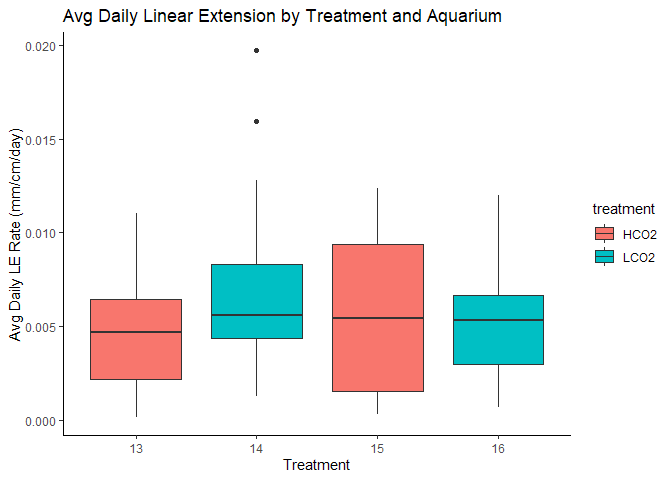
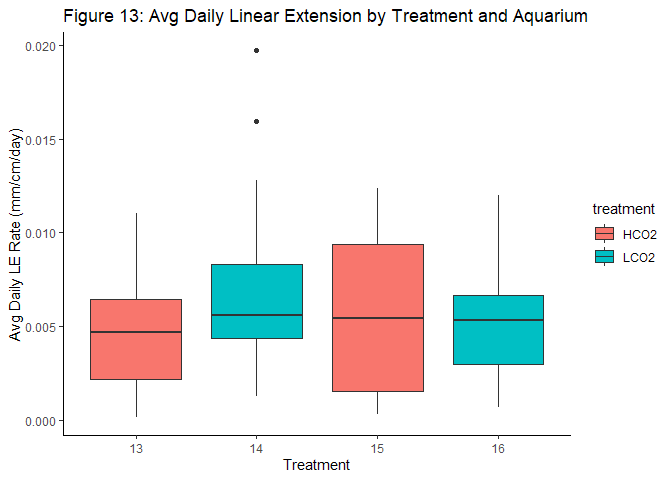
post update

Changed region(s): [[0.0938, 0.0, 0.875, 0.0625]]

diff --git a/_posts/2022-08-03-ulink2022GrowthAnalysis.md b/_posts/2022-08-03-ulink2022GrowthAnalysis.md
@@ -106,7 +106,7 @@ programmed variability will be apart of the variability of each sample
 along with sampling error, durafet error altering amount of CO2 injected
 into aquaria (shown above in the LabView data), etc.
 
-<img src="/notebook/images/ulinkGrowth2022/unnamed-chunk-3-1.png" width="90%" style="display: block; margin: auto;" />
+<img src="/notebook/images/ulinkGrowth2022/todSampling-1.png" width="90%" style="display: block; margin: auto;" />
 
 Sampling time had a mean of around 10a. 3 sampling times were taken
 after 12p with one sampling time around 4:20p
@@ -115,7 +115,7 @@ after 12p with one sampling time around 4:20p
 
 <table class=" lightable-classic" style="font-family: &quot;Arial Narrow&quot;, &quot;Source Sans Pro&quot;, sans-serif; margin-left: auto; margin-right: auto;">
 <caption>
-Aquarium Conditions. Means ± SEM
+Table 1: Aquarium Conditions. Means ± SEM
 </caption>
 <thead>
 <tr>
@@ -242,7 +242,7 @@ T16
 
 <table class=" lightable-classic" style="font-family: &quot;Arial Narrow&quot;, &quot;Source Sans Pro&quot;, sans-serif; margin-left: auto; margin-right: auto;">
 <caption>
-Significance of Parameters
+Table 2: Significance of Parameters
 </caption>
 <thead>
 <tr>
@@ -788,7 +788,7 @@ There is some obvious genet-specific responses.
 
 <table class=" lightable-classic" style="font-family: &quot;Arial Narrow&quot;, &quot;Source Sans Pro&quot;, sans-serif; margin-left: auto; margin-right: auto;">
 <caption>
-Means of Treatment
+Table 2: Means of Treatment
 </caption>
 <thead>
 <tr>
@@ -839,7 +839,7 @@ LCO2
 </table>
 <table class=" lightable-classic" style="font-family: &quot;Arial Narrow&quot;, &quot;Source Sans Pro&quot;, sans-serif; margin-left: auto; margin-right: auto;">
 <caption>
-Stats of Treatment
+Table 3: Stats of Treatment
 </caption>
 <thead>
 <tr>
@@ -906,7 +906,7 @@ LCO2
 </table>
 <table class=" lightable-classic" style="font-family: &quot;Arial Narrow&quot;, &quot;Source Sans Pro&quot;, sans-serif; margin-left: auto; margin-right: auto;">
 <caption>
-Effect Size of Treatment
+Table 4: Effect Size of Treatment
 </caption>
 <thead>
 <tr>
@@ -961,7 +961,7 @@ large
 </table>
 <table class=" lightable-classic" style="font-family: &quot;Arial Narrow&quot;, &quot;Source Sans Pro&quot;, sans-serif; margin-left: auto; margin-right: auto;">
 <caption>
-TukeyHSD Results of Anova
+Table 5: TukeyHSD Results of Anova
 </caption>
 <thead>
 <tr>
@@ -1124,7 +1124,7 @@ NS
 </table>
 <table class=" lightable-classic" style="font-family: &quot;Arial Narrow&quot;, &quot;Source Sans Pro&quot;, sans-serif; margin-left: auto; margin-right: auto;">
 <caption>
-Significance Letter Groups
+Table 6: Significance Letter Groups
 </caption>
 <thead>
 <tr>
@@ -1279,7 +1279,7 @@ different between aquariums within the same treatment group.
 
 <table class=" lightable-classic" style="font-family: &quot;Arial Narrow&quot;, &quot;Source Sans Pro&quot;, sans-serif; margin-left: auto; margin-right: auto;">
 <caption>
-Significance testing of tank effect on calcification
+Table 7: Significance testing of tank effect on calcification
 </caption>
 <thead>
 <tr>
@@ -1455,7 +1455,7 @@ Tukey post-hoc analysis of the mixed effects model:
 
 <table class=" lightable-classic" style="font-family: &quot;Arial Narrow&quot;, &quot;Source Sans Pro&quot;, sans-serif; margin-left: auto; margin-right: auto;">
 <caption>
-Pairwise comparison of genotypes’ sensitivity to OA
+Table 8: Pairwise comparison of genotypes’ sensitivity to OA
 </caption>
 <thead>
 <tr>
@@ -1571,7 +1571,7 @@ including XRD), &gt;120 mg = orange (complete suite sans XRD), &gt;50mg
 
 <table class=" lightable-classic" style="font-family: &quot;Arial Narrow&quot;, &quot;Source Sans Pro&quot;, sans-serif; margin-left: auto; margin-right: auto;">
 <caption>
-Means of Treatment
+Table 9:Means of Treatment
 </caption>
 <thead>
 <tr>
@@ -1622,7 +1622,7 @@ LCO2
 </table>
 <table class=" lightable-classic" style="font-family: &quot;Arial Narrow&quot;, &quot;Source Sans Pro&quot;, sans-serif; margin-left: auto; margin-right: auto;">
 <caption>
-Stats of Treatment
+Table 10: Stats of Treatment
 </caption>
 <thead>
 <tr>
@@ -1689,7 +1689,7 @@ ns
 </table>
 <table class=" lightable-classic" style="font-family: &quot;Arial Narrow&quot;, &quot;Source Sans Pro&quot;, sans-serif; margin-left: auto; margin-right: auto;">
 <caption>
-Effect Size of Treatment
+Table 11: Effect Size of Treatment
 </caption>
 <thead>
 <tr>
@@ -1744,7 +1744,7 @@ small
 </table>
 <table class=" lightable-classic" style="font-family: &quot;Arial Narrow&quot;, &quot;Source Sans Pro&quot;, sans-serif; margin-left: auto; margin-right: auto;">
 <caption>
-TukeyHSD Results of Anova
+Table 12: TukeyHSD Results of Anova
 </caption>
 <thead>
 <tr>
@@ -1907,7 +1907,7 @@ NS
 </table>
 <table class=" lightable-classic" style="font-family: &quot;Arial Narrow&quot;, &quot;Source Sans Pro&quot;, sans-serif; margin-left: auto; margin-right: auto;">
 <caption>
-Significance Letter Groups
+Table 13: Significance Letter Groups
 </caption>
 <thead>
 <tr>
@@ -2051,7 +2051,7 @@ statistically significant, t(82) = -1.556, p =0.124, d = -0.34.
 
 <table class=" lightable-classic" style="font-family: &quot;Arial Narrow&quot;, &quot;Source Sans Pro&quot;, sans-serif; margin-left: auto; margin-right: auto;">
 <caption>
-Significance testing of tank effect on Linear Extension Rates
+Figure 16: Significance testing of tank effect on Linear Extension Rates
 </caption>
 <thead>
 <tr>
@@ -2179,7 +2179,7 @@ ns
 
 <table class=" lightable-classic" style="font-family: &quot;Arial Narrow&quot;, &quot;Source Sans Pro&quot;, sans-serif; margin-left: auto; margin-right: auto;">
 <caption>
-Pairwise comparison of genotypes’ sensitivity to OA
+Table 14:Pairwise comparison of genotypes’ sensitivity to OA
 </caption>
 <thead>
 <tr>
